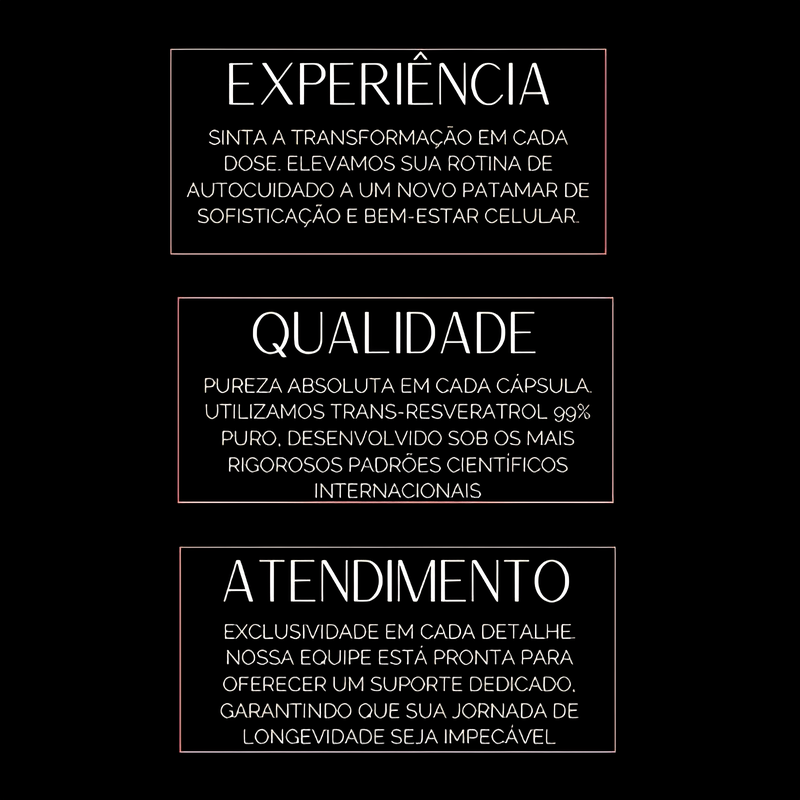
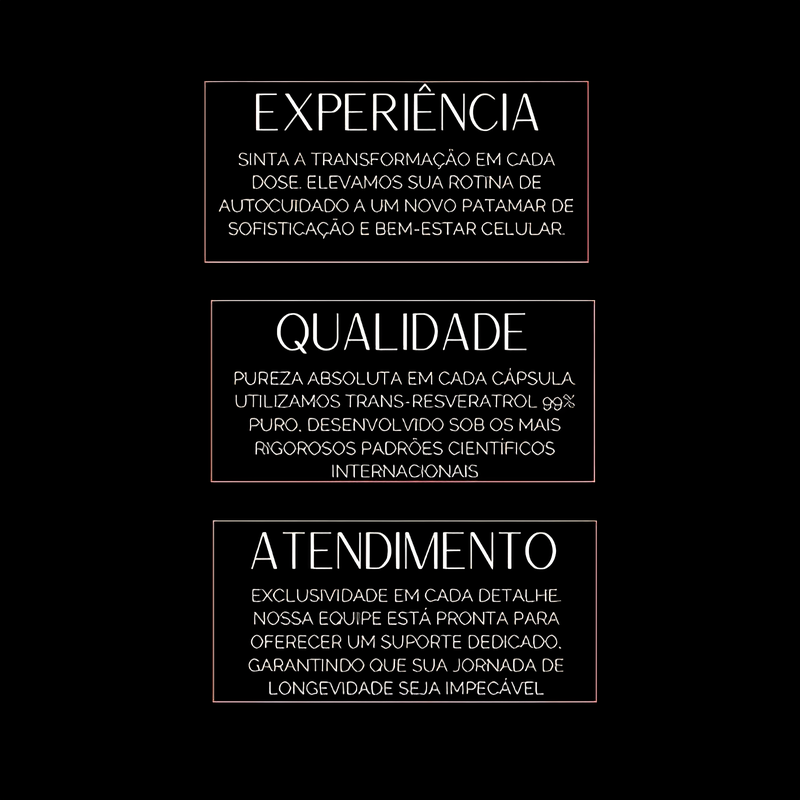
layout: correção final de sobreposição e posicionamento dos pilares mobile entre blocos de conteúdo

Changed region(s): [[0.2188, 0.375, 0.75, 0.9375], [0.2188, 0.0625, 0.7812, 0.3438], [0.7188, 0.375, 0.75, 0.4062]]

diff --git a/src/components/sections/PrebioticSection.tsx b/src/components/sections/PrebioticSection.tsx
@@ -108,12 +108,12 @@ export function PrebioticSection() {
         </div>
 
         {/* PILARES MOBILE - IMAGEM AMPLIADA */}
-        <div className="w-full bg-white pb-8 overflow-visible">
+        <div className="w-full bg-white my-8 overflow-visible">
           <div className="px-1">
             <img
               src="/resverabio-pilares-mobile4.png"
               alt="Pilares Resverabio"
-              className="w-full h-auto object-contain transform scale-[1.85] origin-top"
+              className="w-full h-auto object-contain"
               loading="lazy"
             />
           </div>
